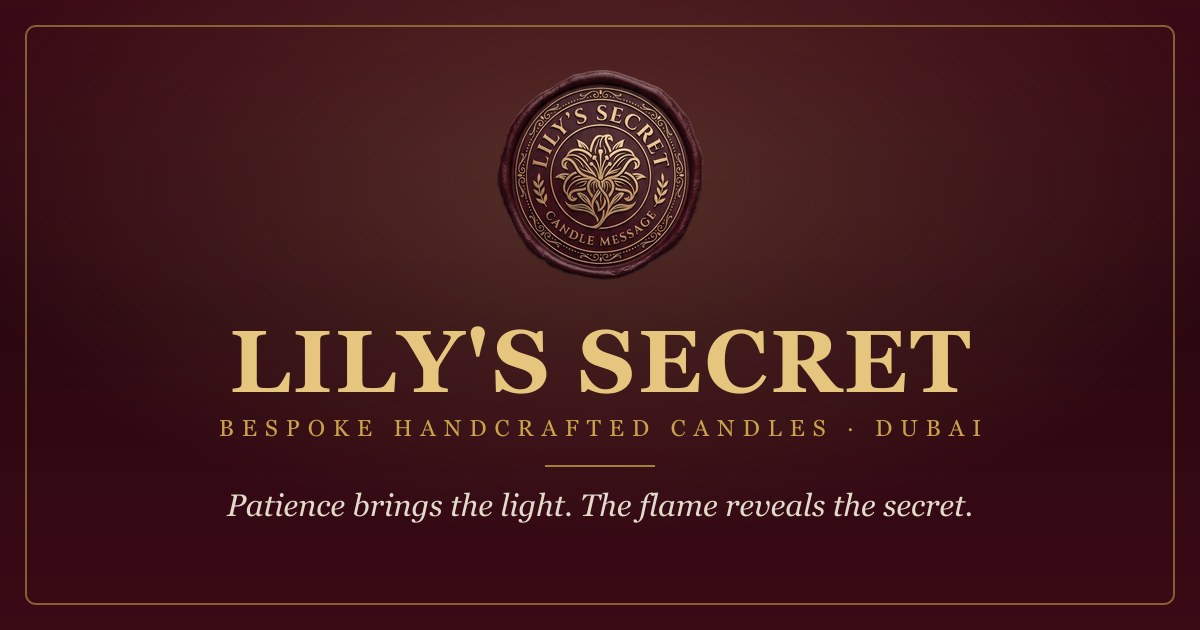
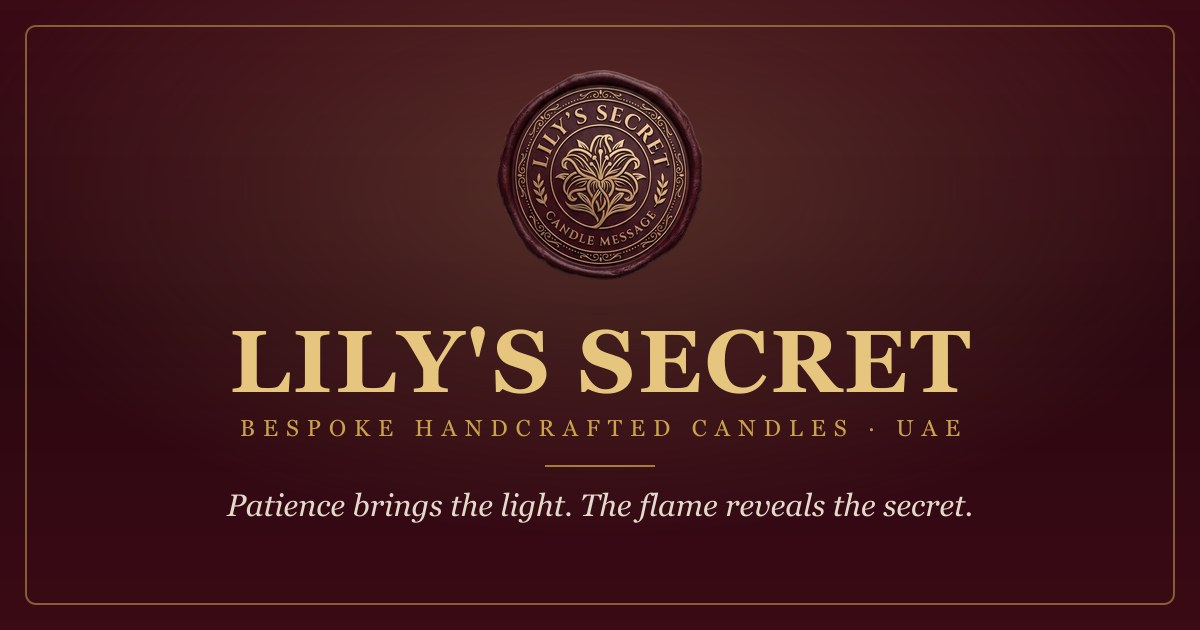
Switch marketing location from "Dubai" to "UAE" (per owner)
The company is registered in Sharjah (legal pages) and the owner opted to
market generally as "UAE" rather than a specific city. Replaced all location
claims — title, meta description/keywords, geo tags, OG/Twitter, JSON-LD
(business/product/FAQ, dropped addressLocality), the hero eyebrow, FAQ, footer
location and trust strip — across all six languages, and regenerated the
share image (now "· UAE"). Kept the genuine "From Dubai, with Love" product
message and the @user handle. VAT: not registered (wording
unchanged).

Changed region(s): [[0.185, 0.6635, 0.8017, 0.6937]]

diff --git a/js/i18n.js b/js/i18n.js
@@ -12,13 +12,13 @@
     /* ---------------- ENGLISH ---------------- */
     en: {
       "share.label":"Share","share.copied":"Link copied ✓",
-      "share.text":"Bespoke candles with a secret message hidden in the wax — handmade in Dubai.",
+      "share.text":"Bespoke candles with a secret message hidden in the wax — handmade in the UAE.",
       "faq.eyebrow":"Questions","faq.title":"Frequently asked",
-      "faq.q1":"What is Lily's Secret?","faq.a1":"We're a Dubai maker of bespoke, hand-poured candles. Each one hides a secret personal message at the bottom of the glass, revealed only as the flame burns down.",
+      "faq.q1":"What is Lily's Secret?","faq.a1":"We're a UAE maker of bespoke, hand-poured candles. Each one hides a secret personal message at the bottom of the glass, revealed only as the flame burns down.",
       "faq.q2":"How does the secret message work?","faq.a2":"You choose a fragrance and write your message. We hand-set it at the bottom of the glass before the final pour, so it stays hidden in the wax and is revealed as the candle burns down.",
       "faq.q3":"How do I place an order?","faq.a3":"Use the \u2018Create Your Candle\u2019 builder, then tap \u2018Send my order\u2019 or \u2018Order on WhatsApp\u2019. No payment is taken online \u2014 we confirm every bespoke order with you personally.",
       "faq.q4":"Can I return or change a candle?","faq.a4":"As each candle is personalised, it can't be returned once production begins. If anything arrives damaged or incorrect we'll put it right \u2014 see our Returns page.",
-      "faq.q5":"Where are the candles made, and do you deliver?","faq.a5":"Every candle is handmade to order in Dubai. We deliver across the UAE, with collection available in Dubai.",
+      "faq.q5":"Where are the candles made, and do you deliver?","faq.a5":"Every candle is handmade to order in the UAE. We deliver across the UAE.",
       "summary.wa":"Order on WhatsApp",
       "wa.prefill":"Hello Lily's Secret! I'd like to ask about a candle.","wa.aria":"Chat with us on WhatsApp",
       "footer.terms":"Terms","footer.privacy":"Privacy","footer.returns":"Returns",
@@ -40,12 +40,12 @@
       "nav.secret":"The Secret","nav.fragrances":"Fragrances","nav.how":"How It Works","nav.craft":"Craft","nav.occasions":"Occasions",
       "cta.create":"Create Your Candle",
       "ribbon.text":"Launch offer — <strong>10% off</strong> your first candle, with a hidden surprise inside","ribbon.link":"Claim it",
-      "hero.eyebrow":"Bespoke · Handcrafted · Dubai",
+      "hero.eyebrow":"Bespoke · Handcrafted · UAE",
       "hero.title":"Patience brings the light.<br><em>The flame reveals the secret.</em>",
       "hero.lead":"Fully personalised candles — a fragrance you choose, a message you write, hidden in the wax and revealed only once the flame has burned all the way down.",
       "hero.cta1":"Create Your Candle","hero.cta2":"See the secret ↓",
       "hero.seal1":"100% Plant Wax","hero.seal2":"Hand-Sealed","hero.seal3":"Revealable Message","hero.cap":"One-of-a-kind · Handmade to order",
-      "marquee.1":"Handmade to order","marquee.2":"Secret message in every candle","marquee.3":"100% plant wax","marquee.4":"Hand-sealed in Dubai",
+      "marquee.1":"Handmade to order","marquee.2":"Secret message in every candle","marquee.3":"100% plant wax","marquee.4":"Hand-sealed in the UAE",
       "promise.eyebrow":"Our Promise","promise.title":"Every candle tells a story",
       "promise.sub":"Lily's Secret creates fully personalised candles: a fragrance chosen with care, an intimate message revealed at the bottom of the glass — hand-crafted from the first pour to the final seal.",
       "promise.h1":"Handmade","promise.p1":"Every candle is poured and finished by hand, one at a time.",
@@ -97,7 +97,7 @@
       "summary.fine":"Your order is sent straight to our studio. No payment is taken online — we confirm every bespoke order personally.",
       "footer.explore":"Explore","footer.touch":"Get in touch","footer.ready":"Ready?",
       "footer.readyp":"Every order is a one-of-a-kind piece. Let's talk fragrance, message and occasion.",
-      "footer.loc":"Handmade in Dubai, UAE","footer.tagline":"<em>Patience brings the light. The flame reveals the secret.</em>",
+      "footer.loc":"Handmade in the UAE","footer.tagline":"<em>Patience brings the light. The flame reveals the secret.</em>",
       "footer.base2":"One-of-a-kind pieces — handmade to order",
       "msg.0":"A single flame of your heart illuminates the entire universe.",
       "msg.1":"Espresso yourself, or just slow down.",
@@ -114,13 +114,13 @@
     /* ---------------- ARABIC (RTL) ---------------- */
     ar: {
       "share.label":"مشاركة","share.copied":"تم نسخ الرابط ✓",
-      "share.text":"شموع مخصّصة برسالة سرّية مخبّأة في الشمع — صناعة يدوية في دبي.",
+      "share.text":"شموع مخصّصة برسالة سرّية مخبّأة في الشمع — صناعة يدوية في الإمارات.",
       "faq.eyebrow":"أسئلة","faq.title":"الأسئلة الشائعة",
-      "faq.q1":"ما هي ليليز سيكريت؟","faq.a1":"نحن صانعو شموع مخصّصة مصبوبة يدوياً في دبي. كل شمعة تخفي رسالة شخصية سرّية في قاع الكوب، تُكشف فقط عندما يحترق اللهب حتى النهاية.",
+      "faq.q1":"ما هي ليليز سيكريت؟","faq.a1":"نحن صانعو شموع مخصّصة مصبوبة يدوياً في الإمارات. كل شمعة تخفي رسالة شخصية سرّية في قاع الكوب، تُكشف فقط عندما يحترق اللهب حتى النهاية.",
       "faq.q2":"كيف تعمل الرسالة السرّية؟","faq.a2":"تختار عطراً وتكتب رسالتك. نضعها يدوياً في قاع الكوب قبل الصبّة الأخيرة، فتبقى مخبّأة في الشمع وتُكشف مع احتراق الشمعة.",
       "faq.q3":"كيف أضع طلباً؟","faq.a3":"استخدم أداة «اصنع شمعتك»، ثم اضغط «أرسل طلبي» أو «اطلب عبر واتساب». لا يتم الدفع عبر الإنترنت — نؤكّد كل طلب خاص معك شخصياً.",
       "faq.q4":"هل يمكنني إرجاع الشمعة أو تغييرها؟","faq.a4":"بما أن كل شمعة مخصّصة، لا يمكن إرجاعها بعد بدء الإنتاج. وإذا وصل أي شيء تالفاً أو غير صحيح فسنعالج الأمر — راجع صفحة الإرجاع.",
-      "faq.q5":"أين تُصنع الشموع، وهل توصّلون؟","faq.a5":"كل شمعة تُصنع يدوياً حسب الطلب في دبي. نوصّل إلى جميع أنحاء الإمارات، مع إمكانية الاستلام في دبي.",
+      "faq.q5":"أين تُصنع الشموع، وهل توصّلون؟","faq.a5":"كل شمعة تُصنع يدوياً حسب الطلب في الإمارات. نوصّل إلى جميع أنحاء الإمارات.",
       "summary.wa":"اطلب عبر واتساب",
       "wa.prefill":"مرحباً ليليز سيكريت! أودّ الاستفسار عن شمعة.","wa.aria":"تحدّث معنا على واتساب",
       "footer.terms":"الشروط","footer.privacy":"الخصوصية","footer.returns":"الإرجاع",
@@ -142,12 +142,12 @@
       "nav.secret":"السرّ","nav.fragrances":"العطور","nav.how":"كيف نصنعها","nav.craft":"الحرفة","nav.occasions":"المناسبات",
       "cta.create":"اصنع شمعتك",
       "ribbon.text":"عرض الإطلاق — <strong>خصم 10%</strong> على شمعتك الأولى، مع مفاجأة مخبّأة في الداخل","ribbon.link":"احصل عليه",
-      "hero.eyebrow":"مصنوعة خصيصاً · يدويّة · دبي",
+      "hero.eyebrow":"مصنوعة خصيصاً · يدويّة · الإمارات",
       "hero.title":"الصبر يجلب النور.<br><em>واللهب يكشف السرّ.</em>",
       "hero.lead":"شموع مخصّصة بالكامل — عطر تختاره، ورسالة تكتبها، مخبّأة في الشمع تُكشف فقط حين يحترق اللهب حتى النهاية.",
       "hero.cta1":"اصنع شمعتك","hero.cta2":"اكتشف السرّ ↓",
       "hero.seal1":"شمع نباتي 100%","hero.seal2":"مختومة يدوياً","hero.seal3":"رسالة قابلة للكشف","hero.cap":"قطعة فريدة · تُصنع حسب الطلب",
-      "marquee.1":"تُصنع حسب الطلب","marquee.2":"رسالة سرّية في كل شمعة","marquee.3":"شمع نباتي 100%","marquee.4":"مختومة يدوياً في دبي",
+      "marquee.1":"تُصنع حسب الطلب","marquee.2":"رسالة سرّية في كل شمعة","marquee.3":"شمع نباتي 100%","marquee.4":"مختومة يدوياً في الإمارات",
       "promise.eyebrow":"وعدنا","promise.title":"كل شمعة تروي حكاية",
       "promise.sub":"تصنع «ليليز سيكريت» شموعاً مخصّصة بالكامل: عطر يُختار بعناية، ورسالة حميمة تُكشف في قاع الكوب — مصنوعة يدوياً من أول صبّة إلى الختم الأخير.",
       "promise.h1":"صناعة يدوية","promise.p1":"كل شمعة تُصبّ وتُنجز يدوياً، واحدة تلو الأخرى.",
@@ -199,7 +199,7 @@
       "summary.fine":"يُرسَل طلبك مباشرةً إلى استوديونا. لا يتم الدفع عبر الإنترنت — نؤكّد كل طلب خاص شخصياً.",
       "footer.explore":"استكشف","footer.touch":"تواصل معنا","footer.ready":"جاهز؟",
       "footer.readyp":"كل طلب قطعة فريدة. لنتحدّث عن العطر والرسالة والمناسبة.",
-      "footer.loc":"صناعة يدوية في دبي، الإمارات","footer.tagline":"<em>الصبر يجلب النور. واللهب يكشف السرّ.</em>",
+      "footer.loc":"صناعة يدوية في الإمارات","footer.tagline":"<em>الصبر يجلب النور. واللهب يكشف السرّ.</em>",
       "footer.base2":"قطع فريدة — تُصنع حسب الطلب",
       "msg.0":"شعلة واحدة من قلبك تُنير الكون بأكمله.",
       "msg.1":"تناول قهوتك، أو فقط تمهّل.",
@@ -216,13 +216,13 @@
     /* ---------------- TURKISH ---------------- */
     tr: {
       "share.label":"Paylaş","share.copied":"Bağlantı kopyalandı ✓",
-      "share.text":"Balmumunda gizli bir mesaj taşıyan kişiye özel mumlar — Dubai'de el yapımı.",
+      "share.text":"Balmumunda gizli bir mesaj taşıyan kişiye özel mumlar — BAE'de el yapımı.",
       "faq.eyebrow":"Sorular","faq.title":"Sık sorulanlar",
-      "faq.q1":"Lily's Secret nedir?","faq.a1":"Dubai'de kişiye özel, elde dökülen mumlar üretiyoruz. Her mum, camın dibinde gizli kişisel bir mesaj saklar ve bu mesaj ancak alev sonuna dek yandığında ortaya çıkar.",
+      "faq.q1":"Lily's Secret nedir?","faq.a1":"BAE'de kişiye özel, elde dökülen mumlar üretiyoruz. Her mum, camın dibinde gizli kişisel bir mesaj saklar ve bu mesaj ancak alev sonuna dek yandığında ortaya çıkar.",
       "faq.q2":"Gizli mesaj nasıl çalışır?","faq.a2":"Bir koku seçer ve mesajınızı yazarsınız. Son dökümden önce camın dibine elle yerleştiririz; böylece balmumunda gizli kalır ve mum yandıkça ortaya çıkar.",
       "faq.q3":"Nasıl sipariş veririm?","faq.a3":"\u2018Mumunu Yarat\u2019 aracını kullanın, ardından \u2018Siparişimi gönder\u2019 ya da \u2018WhatsApp'tan sipariş ver\u2019e dokunun. Çevrimiçi ödeme alınmaz \u2014 her özel siparişi sizinle bizzat onaylarız.",
       "faq.q4":"Bir mumu iade edebilir veya değiştirebilir miyim?","faq.a4":"Her mum kişiye özel olduğundan, üretim başladıktan sonra iade edilemez. Bir şey hasarlı ya da yanlış gelirse düzeltiriz \u2014 İadeler sayfamıza bakın.",
-      "faq.q5":"Mumlar nerede yapılıyor ve teslimat yapıyor musunuz?","faq.a5":"Her mum Dubai'de siparişe özel el yapımıdır. BAE genelinde teslimat yaparız; Dubai'de teslim alma seçeneği vardır.",
+      "faq.q5":"Mumlar nerede yapılıyor ve teslimat yapıyor musunuz?","faq.a5":"Her mum BAE'de siparişe özel el yapımıdır. BAE genelinde teslimat yaparız.",
       "summary.wa":"WhatsApp'tan sipariş ver",
       "wa.prefill":"Merhaba Lily's Secret! Bir mum hakkında soru sormak istiyorum.","wa.aria":"WhatsApp'tan bize yazın",
       "footer.terms":"Koşullar","footer.privacy":"Gizlilik","footer.returns":"İadeler",
@@ -244,12 +244,12 @@
       "nav.secret":"Sır","nav.fragrances":"Kokular","nav.how":"Nasıl Çalışır","nav.craft":"Zanaat","nav.occasions":"Anlar",
       "cta.create":"Mumunu Yarat",
       "ribbon.text":"Lansman fırsatı — ilk mumunda <strong>%10 indirim</strong> ve içinde gizli bir sürpriz","ribbon.link":"Fırsatı yakala",
-      "hero.eyebrow":"Kişiye Özel · El Yapımı · Dubai",
+      "hero.eyebrow":"Kişiye Özel · El Yapımı · BAE",
       "hero.title":"Sabır ışığı getirir.<br><em>Alev sırrı açığa çıkarır.</em>",
       "hero.lead":"Tamamen kişiye özel mumlar — seçtiğin bir koku, yazdığın bir mesaj, mumun içinde saklı ve ancak alev sonuna dek yandığında ortaya çıkan.",
       "hero.cta1":"Mumunu Yarat","hero.cta2":"Sırrı gör ↓",
       "hero.seal1":"%100 Bitkisel Balmumu","hero.seal2":"Elde Mühürlü","hero.seal3":"Açığa Çıkan Mesaj","hero.cap":"Eşsiz · Siparişe özel el yapımı",
-      "marquee.1":"Siparişe özel el yapımı","marquee.2":"Her mumda gizli bir mesaj","marquee.3":"%100 bitkisel balmumu","marquee.4":"Dubai'de elde mühürlenir",
+      "marquee.1":"Siparişe özel el yapımı","marquee.2":"Her mumda gizli bir mesaj","marquee.3":"%100 bitkisel balmumu","marquee.4":"BAE'de elde mühürlenir",
       "promise.eyebrow":"Sözümüz","promise.title":"Her mum bir hikâye anlatır",
       "promise.sub":"Lily's Secret tamamen kişiye özel mumlar yaratır: özenle seçilmiş bir koku, camın dibinde ortaya çıkan içten bir mesaj — ilk dökümden son mühre dek elde yapılır.",
       "promise.h1":"El Yapımı","promise.p1":"Her mum tek tek, elde dökülür ve tamamlanır.",
@@ -301,7 +301,7 @@
       "summary.fine":"Siparişiniz doğrudan stüdyomuza gönderilir. Çevrimiçi ödeme alınmaz — her özel siparişi bizzat onaylıyoruz.",
       "footer.explore":"Keşfet","footer.touch":"İletişime geç","footer.ready":"Hazır mısın?",
       "footer.readyp":"Her sipariş eşsiz bir parçadır. Koku, mesaj ve anı konuşalım.",
-      "footer.loc":"Dubai, BAE'de el yapımı","footer.tagline":"<em>Sabır ışığı getirir. Alev sırrı açığa çıkarır.</em>",
+      "footer.loc":"BAE'de el yapımı","footer.tagline":"<em>Sabır ışığı getirir. Alev sırrı açığa çıkarır.</em>",
       "footer.base2":"Eşsiz parçalar — siparişe özel el yapımı",
       "msg.0":"Kalbinin tek bir alevi tüm evreni aydınlatır.",
       "msg.1":"Bir espresso iç ya da sadece yavaşla.",
@@ -318,13 +318,13 @@
     /* ---------------- FRENCH ---------------- */
     fr: {
       "share.label":"Partager","share.copied":"Lien copié ✓",
-      "share.text":"Des bougies sur mesure avec un message secret caché dans la cire — faites main à Dubaï.",
+      "share.text":"Des bougies sur mesure avec un message secret caché dans la cire — faites main aux Émirats arabes unis.",
       "faq.eyebrow":"Questions","faq.title":"Questions fréquentes",
-      "faq.q1":"Qu'est-ce que Lily's Secret ?","faq.a1":"Nous créons à Dubaï des bougies sur mesure, coulées à la main. Chacune cache un message personnel secret au fond du verre, révélé seulement lorsque la flamme a tout consumé.",
+      "faq.q1":"Qu'est-ce que Lily's Secret ?","faq.a1":"Nous créons aux Émirats arabes unis des bougies sur mesure, coulées à la main. Chacune cache un message personnel secret au fond du verre, révélé seulement lorsque la flamme a tout consumé.",
       "faq.q2":"Comment fonctionne le message secret ?","faq.a2":"Vous choisissez une fragrance et écrivez votre message. Nous le plaçons à la main au fond du verre avant la coulée finale ; il reste caché dans la cire et se révèle à mesure que la bougie brûle.",
       "faq.q3":"Comment passer commande ?","faq.a3":"Utilisez le module \u2018Créez votre bougie\u2019, puis touchez \u2018Envoyer ma commande\u2019 ou \u2018Commander sur WhatsApp\u2019. Aucun paiement en ligne \u2014 nous confirmons chaque commande sur mesure avec vous personnellement.",
       "faq.q4":"Puis-je retourner ou modifier une bougie ?","faq.a4":"Chaque bougie étant personnalisée, elle ne peut être retournée une fois la production commencée. Si un article arrive endommagé ou incorrect, nous y remédions \u2014 voir notre page Retours.",
-      "faq.q5":"Où sont fabriquées les bougies, et livrez-vous ?","faq.a5":"Chaque bougie est faite main sur commande à Dubaï. Nous livrons dans tous les Émirats, avec retrait possible à Dubaï.",
+      "faq.q5":"Où sont fabriquées les bougies, et livrez-vous ?","faq.a5":"Chaque bougie est faite main sur commande aux Émirats arabes unis. Nous livrons dans tous les Émirats.",
       "summary.wa":"Commander sur WhatsApp",
       "wa.prefill":"Bonjour Lily's Secret ! J'aimerais me renseigner sur une bougie.","wa.aria":"Discutez avec nous sur WhatsApp",
       "footer.terms":"Conditions","footer.privacy":"Confidentialité","footer.returns":"Retours",
@@ -346,12 +346,12 @@
       "nav.secret":"Le Secret","nav.fragrances":"Fragrances","nav.how":"Comment ça marche","nav.craft":"Savoir-faire","nav.occasions":"Occasions",
       "cta.create":"Créez votre bougie",
       "ribbon.text":"Offre de lancement — <strong>-10 %</strong> sur votre première bougie, avec une surprise cachée à l'intérieur","ribbon.link":"J'en profite",
-      "hero.eyebrow":"Sur mesure · Fait main · Dubaï",
+      "hero.eyebrow":"Sur mesure · Fait main · ÉAU",
       "hero.title":"La patience apporte la lumière.<br><em>La flamme révèle le secret.</em>",
       "hero.lead":"Des bougies entièrement personnalisées — une fragrance que vous choisissez, un message que vous écrivez, caché dans la cire et révélé seulement lorsque la flamme a tout consumé.",
       "hero.cta1":"Créez votre bougie","hero.cta2":"Voir le secret ↓",
       "hero.seal1":"Cire 100 % végétale","hero.seal2":"Scellée à la main","hero.seal3":"Message à révéler","hero.cap":"Pièce unique · Faite main sur commande",
-      "marquee.1":"Faite main sur commande","marquee.2":"Un message secret dans chaque bougie","marquee.3":"Cire 100 % végétale","marquee.4":"Scellée à la main à Dubaï",
+      "marquee.1":"Faite main sur commande","marquee.2":"Un message secret dans chaque bougie","marquee.3":"Cire 100 % végétale","marquee.4":"Scellée à la main aux Émirats",
       "promise.eyebrow":"Notre Promesse","promise.title":"Chaque bougie raconte une histoire",
       "promise.sub":"Lily's Secret crée des bougies entièrement personnalisées : une fragrance choisie avec soin, un message intime révélé au fond du verre — façonnée à la main, de la première coulée au dernier sceau.",
       "promise.h1":"Fait main","promise.p1":"Chaque bougie est coulée et finie à la main, une à une.",
@@ -403,7 +403,7 @@
       "summary.fine":"Votre commande est envoyée directement à notre atelier. Aucun paiement en ligne — nous confirmons chaque commande sur mesure personnellement.",
       "footer.explore":"Explorer","footer.touch":"Nous contacter","footer.ready":"Prêt ?",
       "footer.readyp":"Chaque commande est une pièce unique. Parlons fragrance, message et occasion.",
-      "footer.loc":"Fait main à Dubaï, ÉAU","footer.tagline":"<em>La patience apporte la lumière. La flamme révèle le secret.</em>",
+      "footer.loc":"Fait main aux ÉAU","footer.tagline":"<em>La patience apporte la lumière. La flamme révèle le secret.</em>",
       "footer.base2":"Pièces uniques — faites main sur commande",
       "msg.0":"Une seule flamme de ton cœur illumine l'univers entier.",
       "msg.1":"Un espresso, ou simplement ralentir.",
@@ -420,13 +420,13 @@
     /* ---------------- RUSSIAN ---------------- */
     ru: {
       "share.label":"Поделиться","share.copied":"Ссылка скопирована ✓",
-      "share.text":"Персональные свечи с секретным посланием, спрятанным в воске — ручная работа из Дубая.",
+      "share.text":"Персональные свечи с секретным посланием, спрятанным в воске — ручная работа из ОАЭ.",
       "faq.eyebrow":"Вопросы","faq.title":"Частые вопросы",
-      "faq.q1":"Что такое Lily's Secret?","faq.a1":"Мы делаем в Дубае индивидуальные свечи ручной заливки. Каждая прячет секретное личное послание на дне стакана, которое открывается лишь когда пламя прогорит до конца.",
+      "faq.q1":"Что такое Lily's Secret?","faq.a1":"Мы делаем в ОАЭ индивидуальные свечи ручной заливки. Каждая прячет секретное личное послание на дне стакана, которое открывается лишь когда пламя прогорит до конца.",
       "faq.q2":"Как работает секретное послание?","faq.a2":"Вы выбираете аромат и пишете своё послание. Мы вручную размещаем его на дне стакана перед финальной заливкой, поэтому оно спрятано в воске и открывается по мере горения свечи.",
       "faq.q3":"Как сделать заказ?","faq.a3":"Воспользуйтесь конструктором \u2018Создайте свою свечу\u2019, затем нажмите \u2018Отправить заказ\u2019 или \u2018Заказать в WhatsApp\u2019. Оплата онлайн не взимается \u2014 каждый индивидуальный заказ мы подтверждаем лично.",
       "faq.q4":"Можно ли вернуть или изменить свечу?","faq.a4":"Поскольку каждая свеча персональная, её нельзя вернуть после начала производства. Если что-то придёт повреждённым или неверным — мы всё исправим (см. страницу Возврата).",
-      "faq.q5":"Где делают свечи и есть ли доставка?","faq.a5":"Каждая свеча делается на заказ вручную в Дубае. Мы доставляем по всем ОАЭ, самовывоз доступен в Дубае.",
+      "faq.q5":"Где делают свечи и есть ли доставка?","faq.a5":"Каждая свеча делается на заказ вручную в ОАЭ. Мы доставляем по всем ОАЭ.",
       "summary.wa":"Заказать в WhatsApp",
       "wa.prefill":"Здравствуйте, Lily's Secret! Хочу узнать о свече.","wa.aria":"Напишите нам в WhatsApp",
       "footer.terms":"Условия","footer.privacy":"Конфиденциальность","footer.returns":"Возврат",
@@ -448,12 +448,12 @@
       "nav.secret":"Секрет","nav.fragrances":"Ароматы","nav.how":"Как это работает","nav.craft":"Ремесло","nav.occasions":"Поводы",
       "cta.create":"Создать свечу",
       "ribbon.text":"Запуск — <strong>-10 %</strong> на первую свечу и скрытый сюрприз внутри","ribbon.link":"Забрать",
-      "hero.eyebrow":"На заказ · Ручная работа · Дубай",
+      "hero.eyebrow":"На заказ · Ручная работа · ОАЭ",
       "hero.title":"Терпение приносит свет.<br><em>Пламя раскрывает секрет.</em>",
       "hero.lead":"Полностью персональные свечи — аромат на ваш выбор, ваше послание, спрятанное в воске и открывающееся лишь тогда, когда пламя прогорит до конца.",
       "hero.cta1":"Создать свечу","hero.cta2":"Увидеть секрет ↓",
       "hero.seal1":"100 % растительный воск","hero.seal2":"Запечатано вручную","hero.seal3":"Скрытое послание","hero.cap":"Уникальна · Ручная работа на заказ",
-      "marquee.1":"Ручная работа на заказ","marquee.2":"Секретное послание в каждой свече","marquee.3":"100 % растительный воск","marquee.4":"Запечатано вручную в Дубае",
+      "marquee.1":"Ручная работа на заказ","marquee.2":"Секретное послание в каждой свече","marquee.3":"100 % растительный воск","marquee.4":"Запечатано вручную в ОАЭ",
       "promise.eyebrow":"Наше обещание","promise.title":"Каждая свеча хранит историю",
       "promise.sub":"Lily's Secret создаёт полностью персональные свечи: тщательно выбранный аромат и сокровенное послание на дне стакана — всё вручную, от первой заливки до финальной печати.",
       "promise.h1":"Ручная работа","promise.p1":"Каждая свеча заливается и завершается вручную, по одной.",
@@ -505,7 +505,7 @@
       "summary.fine":"Ваш заказ отправляется прямо в нашу студию. Оплата онлайн не взимается — каждый индивидуальный заказ мы подтверждаем лично.",
       "footer.explore":"Разделы","footer.touch":"Связаться","footer.ready":"Готовы?",
       "footer.readyp":"Каждый заказ — уникальная вещь. Обсудим аромат, послание и повод.",
-      "footer.loc":"Ручная работа в Дубае, ОАЭ","footer.tagline":"<em>Терпение приносит свет. Пламя раскрывает секрет.</em>",
+      "footer.loc":"Ручная работа в ОАЭ","footer.tagline":"<em>Терпение приносит свет. Пламя раскрывает секрет.</em>",
       "footer.base2":"Уникальные изделия — ручная работа на заказ",
       "msg.0":"Одно пламя твоего сердца освещает всю вселенную.",
       "msg.1":"Глоток эспрессо — или просто замедлись.",
@@ -522,13 +522,13 @@
     /* ---------------- HINDI ---------------- */
     hi: {
       "share.label":"साझा करें","share.copied":"लिंक कॉपी हो गया ✓",
-      "share.text":"मोम में छिपे गुप्त संदेश वाली वैयक्तिक मोमबत्तियाँ — दुबई में हस्तनिर्मित।",
+      "share.text":"मोम में छिपे गुप्त संदेश वाली वैयक्तिक मोमबत्तियाँ — यूएई में हस्तनिर्मित।",
       "faq.eyebrow":"सवाल","faq.title":"अक्सर पूछे जाने वाले सवाल",
-      "faq.q1":"Lily's Secret क्या है?","faq.a1":"हम दुबई में हाथ से ढाली गई वैयक्तिक मोमबत्तियाँ बनाते हैं। हर मोमबत्ती काँच की तली में एक गुप्त निजी संदेश छिपाती है, जो तभी उजागर होता है जब लौ पूरी तरह जल जाती है।",
+      "faq.q1":"Lily's Secret क्या है?","faq.a1":"हम यूएई में हाथ से ढाली गई वैयक्तिक मोमबत्तियाँ बनाते हैं। हर मोमबत्ती काँच की तली में एक गुप्त निजी संदेश छिपाती है, जो तभी उजागर होता है जब लौ पूरी तरह जल जाती है।",
       "faq.q2":"गुप्त संदेश कैसे काम करता है?","faq.a2":"आप एक सुगंध चुनते हैं और अपना संदेश लिखते हैं। हम इसे अंतिम ढलाई से पहले काँच की तली में हाथ से रखते हैं, ताकि यह मोम में छिपा रहे और मोमबत्ती के जलने पर उजागर हो।",
       "faq.q3":"मैं ऑर्डर कैसे करूँ?","faq.a3":"\u2018अपनी मोमबत्ती बनाएँ\u2019 टूल का उपयोग करें, फिर \u2018मेरा ऑर्डर भेजें\u2019 या \u2018WhatsApp पर ऑर्डर करें\u2019 दबाएँ। ऑनलाइन कोई भुगतान नहीं \u2014 हर विशेष ऑर्डर की पुष्टि हम आपके साथ व्यक्तिगत रूप से करते हैं।",
       "faq.q4":"क्या मैं मोमबत्ती वापस या बदल सकता/सकती हूँ?","faq.a4":"चूँकि हर मोमबत्ती वैयक्तिक है, उत्पादन शुरू होने के बाद इसे वापस नहीं किया जा सकता। यदि कुछ क्षतिग्रस्त या गलत आता है तो हम उसे ठीक करेंगे \u2014 हमारा वापसी पेज देखें।",
-      "faq.q5":"मोमबत्तियाँ कहाँ बनती हैं, और क्या आप डिलीवरी करते हैं?","faq.a5":"हर मोमबत्ती दुबई में ऑर्डर पर हस्तनिर्मित होती है। हम पूरे यूएई में डिलीवरी करते हैं, दुबई में पिकअप उपलब्ध है।",
+      "faq.q5":"मोमबत्तियाँ कहाँ बनती हैं, और क्या आप डिलीवरी करते हैं?","faq.a5":"हर मोमबत्ती यूएई में ऑर्डर पर हस्तनिर्मित होती है। हम पूरे यूएई में डिलीवरी करते हैं।",
       "summary.wa":"WhatsApp पर ऑर्डर करें",
       "wa.prefill":"नमस्ते Lily's Secret! मैं एक मोमबत्ती के बारे में पूछना चाहता/चाहती हूँ।","wa.aria":"WhatsApp पर हमसे बात करें",
       "footer.terms":"शर्तें","footer.privacy":"गोपनीयता","footer.returns":"वापसी",
@@ -550,12 +550,12 @@
       "nav.secret":"राज़","nav.fragrances":"सुगंध","nav.how":"यह कैसे काम करता है","nav.craft":"कारीगरी","nav.occasions":"अवसर",
       "cta.create":"अपनी मोमबत्ती बनाएँ",
       "ribbon.text":"लॉन्च ऑफ़र — आपकी पहली मोमबत्ती पर <strong>10% छूट</strong>, अंदर एक छुपा सरप्राइज़","ribbon.link":"पाएँ",
-      "hero.eyebrow":"विशेष रूप से · हस्तनिर्मित · दुबई",
+      "hero.eyebrow":"विशेष रूप से · हस्तनिर्मित · यूएई",
       "hero.title":"धैर्य रोशनी लाता है।<br><em>लौ राज़ को उजागर करती है।</em>",
       "hero.lead":"पूरी तरह वैयक्तिक मोमबत्तियाँ — आपकी चुनी सुगंध, आपका लिखा संदेश, मोम में छिपा और तभी उजागर होता है जब लौ पूरी तरह जल जाती है।",
       "hero.cta1":"अपनी मोमबत्ती बनाएँ","hero.cta2":"राज़ देखें ↓",
       "hero.seal1":"100% पादप मोम","hero.seal2":"हाथ से सील","hero.seal3":"उजागर होने वाला संदेश","hero.cap":"अद्वितीय · ऑर्डर पर हस्तनिर्मित",
-      "marquee.1":"ऑर्डर पर हस्तनिर्मित","marquee.2":"हर मोमबत्ती में एक गुप्त संदेश","marquee.3":"100% पादप मोम","marquee.4":"दुबई में हाथ से सील",
+      "marquee.1":"ऑर्डर पर हस्तनिर्मित","marquee.2":"हर मोमबत्ती में एक गुप्त संदेश","marquee.3":"100% पादप मोम","marquee.4":"यूएई में हाथ से सील",
       "promise.eyebrow":"हमारा वादा","promise.title":"हर मोमबत्ती एक कहानी कहती है",
       "promise.sub":"Lily's Secret पूरी तरह वैयक्तिक मोमबत्तियाँ बनाती है: सावधानी से चुनी गई सुगंध और काँच की तली में उजागर होता एक आत्मीय संदेश — पहली ढलाई से अंतिम सील तक, सब हाथ से।",
       "promise.h1":"हस्तनिर्मित","promise.p1":"हर मोमबत्ती एक-एक करके हाथ से ढाली और पूरी की जाती है।",
@@ -607,7 +607,7 @@
       "summary.fine":"आपका ऑर्डर सीधे हमारे स्टूडियो भेजा जाता है। ऑनलाइन कोई भुगतान नहीं लिया जाता — हर विशेष ऑर्डर की पुष्टि हम व्यक्तिगत रूप से करते हैं।",
       "footer.explore":"जानें","footer.touch":"संपर्क करें","footer.ready":"तैयार?",
       "footer.readyp":"हर ऑर्डर एक अद्वितीय कृति है। सुगंध, संदेश और अवसर पर बात करें।",
-      "footer.loc":"दुबई, यूएई में हस्तनिर्मित","footer.tagline":"<em>धैर्य रोशनी लाता है। लौ राज़ को उजागर करती है।</em>",
+      "footer.loc":"यूएई में हस्तनिर्मित","footer.tagline":"<em>धैर्य रोशनी लाता है। लौ राज़ को उजागर करती है।</em>",
       "footer.base2":"अद्वितीय कृतियाँ — ऑर्डर पर हस्तनिर्मित",
       "msg.0":"तुम्हारे हृदय की एक लौ पूरे ब्रह्मांड को रोशन करती है।",
       "msg.1":"एक एस्प्रेसो लो, या बस थोड़ा ठहर जाओ।",

diff --git a/index.html b/index.html
@@ -3,35 +3,35 @@
 <head>
 <meta charset="UTF-8" />
 <meta name="viewport" content="width=device-width, initial-scale=1.0" />
-<title>Lily's Secret — Bespoke Handcrafted Candles with a Secret Message | Dubai</title>
-<meta name="description" content="Bespoke hand-poured candles in Dubai with a secret personal message hidden in the wax — revealed only as the flame burns down. Choose your fragrance and message; handmade to order." />
-<meta name="keywords" content="bespoke candles Dubai, personalised candles, secret message candle, handmade candles UAE, custom candle gift, hidden message candle" />
+<title>Lily's Secret — Bespoke Handcrafted Candles with a Secret Message | UAE</title>
+<meta name="description" content="Bespoke hand-poured candles in the UAE with a secret personal message hidden in the wax — revealed only as the flame burns down. Choose your fragrance and message; handmade to order." />
+<meta name="keywords" content="bespoke candles UAE, personalised candles, secret message candle, handmade candles UAE, custom candle gift, hidden message candle" />
 <meta name="author" content="Lily's Secret" />
 <meta name="robots" content="index, follow, max-image-preview:large" />
 <meta name="theme-color" content="#4A0E1C" />
 <link rel="canonical" href="https://www.lilysecretcandles.com/" />
 
-<!-- Geo / local (Dubai) -->
-<meta name="geo.region" content="AE-DU" />
-<meta name="geo.placename" content="Dubai" />
+<!-- Geo / local (UAE) -->
+<meta name="geo.region" content="AE" />
+<meta name="geo.placename" content="United Arab Emirates" />
 <meta name="geo.country" content="AE" />
 
 <!-- Open Graph -->
 <meta property="og:site_name" content="Lily's Secret" />
 <meta property="og:title" content="Lily's Secret — Bespoke Handcrafted Candles with a Secret Message" />
-<meta property="og:description" content="A fragrance you choose, a message you write — hidden in the wax until the flame reveals it. Handmade to order in Dubai." />
+<meta property="og:description" content="A fragrance you choose, a message you write — hidden in the wax until the flame reveals it. Handmade to order in the UAE." />
 <meta property="og:image" content="https://www.lilysecretcandles.com/assets/images/og-share.jpg" />
 <meta property="og:image:width" content="1200" />
 <meta property="og:image:height" content="630" />
-<meta property="og:image:alt" content="Lily's Secret — bespoke handcrafted candles, Dubai" />
+<meta property="og:image:alt" content="Lily's Secret — bespoke handcrafted candles, UAE" />
 <meta property="og:url" content="https://www.lilysecretcandles.com/" />
 <meta property="og:type" content="website" />
 <meta property="og:locale" content="en" />
 
 <!-- Twitter -->
 <meta name="twitter:card" content="summary_large_image" />
-<meta name="twitter:title" content="Lily's Secret — Bespoke Handcrafted Candles · Dubai" />
-<meta name="twitter:description" content="Candles with a secret message hidden in the wax, revealed as the flame burns down. Handmade to order in Dubai." />
+<meta name="twitter:title" content="Lily's Secret — Bespoke Handcrafted Candles · UAE" />
+<meta name="twitter:description" content="Candles with a secret message hidden in the wax, revealed as the flame burns down. Handmade to order in the UAE." />
 <meta name="twitter:image" content="https://www.lilysecretcandles.com/assets/images/og-share.jpg" />
 
 <link rel="icon" href="assets/images/logo-seal.png" />
@@ -50,14 +50,14 @@
       "@id": "https://www.lilysecretcandles.com/#business",
       "name": "Lily's Secret",
       "alternateName": "Lily's Secret Candle Message",
-      "description": "Bespoke hand-poured candles with a secret personal message hidden in the wax, revealed as the flame burns down. Handmade to order in Dubai.",
+      "description": "Bespoke hand-poured candles with a secret personal message hidden in the wax, revealed as the flame burns down. Handmade to order in the UAE.",
       "slogan": "Patience brings the light. The flame reveals the secret.",
       "url": "https://www.lilysecretcandles.com/",
       "logo": "https://www.lilysecretcandles.com/assets/images/logo-seal.png",
       "image": "https://www.lilysecretcandles.com/assets/images/hero-candle-seal.jpeg",
       "email": "[email redacted]",
       "priceRange": "$$",
-      "address": { "@type": "PostalAddress", "addressLocality": "Dubai", "addressCountry": "AE" },
+      "address": { "@type": "PostalAddress", "addressCountry": "AE" },
       "areaServed": { "@type": "Country", "name": "United Arab Emirates" },
       "knowsLanguage": ["en", "ar", "tr", "fr", "ru", "hi"],
       "sameAs": ["https://www.instagram.com/lillysecretcandlesdxb"]
@@ -75,7 +75,7 @@
       "@id": "https://www.lilysecretcandles.com/#product",
       "name": "Bespoke Personalised Candle with a Secret Message",
       "brand": { "@type": "Brand", "name": "Lily's Secret" },
-      "description": "A fully personalised, hand-poured candle with a secret message hidden at the bottom of the glass and revealed as the flame burns down. Choose your fragrance, secret message and occasion. 100% plant wax, natural cotton wick, hand-sealed. Handmade to order in Dubai.",
+      "description": "A fully personalised, hand-poured candle with a secret message hidden at the bottom of the glass and revealed as the flame burns down. Choose your fragrance, secret message and occasion. 100% plant wax, natural cotton wick, hand-sealed. Handmade to order in the UAE.",
       "category": "Candles",
       "material": "Plant wax",
       "image": [
@@ -107,9 +107,9 @@
       "@type": "FAQPage",
       "@id": "https://www.lilysecretcandles.com/#faq",
       "mainEntity": [
-        { "@type": "Question", "name": "What is Lily's Secret?", "acceptedAnswer": { "@type": "Answer", "text": "Lily's Secret is a Dubai-based maker of bespoke hand-poured candles. Each candle hides a secret personal message at the bottom of the glass, revealed only once the flame has burned all the way down." } },
+        { "@type": "Question", "name": "What is Lily's Secret?", "acceptedAnswer": { "@type": "Answer", "text": "Lily's Secret is a UAE-based maker of bespoke hand-poured candles. Each candle hides a secret personal message at the bottom of the glass, revealed only once the flame has burned all the way down." } },
         { "@type": "Question", "name": "How does the secret message work?", "acceptedAnswer": { "@type": "Answer", "text": "You choose a fragrance and write a personal message. The message is hand-set at the bottom of the glass before the final pour, hidden in the wax, and revealed as the candle burns down." } },
-        { "@type": "Question", "name": "Where are Lily's Secret candles made?", "acceptedAnswer": { "@type": "Answer", "text": "Every candle is hand-poured and hand-sealed to order in Dubai, United Arab Emirates." } },
+        { "@type": "Question", "name": "Where are Lily's Secret candles made?", "acceptedAnswer": { "@type": "Answer", "text": "Every candle is hand-poured and hand-sealed to order in the United Arab Emirates." } },
         { "@type": "Question", "name": "How do I order a bespoke candle?", "acceptedAnswer": { "@type": "Answer", "text": "Use the 'Create Your Candle' builder on the website to choose your fragrance, secret message and occasion, then send your details. No payment is taken online — each bespoke order is confirmed personally." } },
         { "@type": "Question", "name": "What fragrances are available?", "acceptedAnswer": { "@type": "Answer", "text": "Seven signature scents: Exotic Dream, Amber Tale, Velvet Coffee, Summer Sun, Pure Silk, Sweet Escape and Istanbul Tulip. You can also request your own blend." } }
       ]
@@ -192,7 +192,7 @@
   <div class="hero__grain" aria-hidden="true"></div>
   <div class="hero__inner">
     <div class="hero__copy reveal">
-      <span class="eyebrow eyebrow--gold" data-i18n="hero.eyebrow">Bespoke · Handcrafted · Dubai</span>
+      <span class="eyebrow eyebrow--gold" data-i18n="hero.eyebrow">Bespoke · Handcrafted · UAE</span>
       <h1 class="hero__title" data-i18n-html="hero.title">Patience brings the light.<br /><em>The flame reveals the secret.</em></h1>
       <p class="hero__lead" data-i18n="hero.lead">Fully personalised candles — a fragrance you choose, a message you write, hidden in the wax and revealed only once the flame has burned all the way down.</p>
       <div class="hero__actions">
@@ -453,7 +453,7 @@
     <div class="faq-list reveal">
       <details class="faq-item">
         <summary><span data-i18n="faq.q1">What is Lily's Secret?</span><span class="faq-item__ico" aria-hidden="true"></span></summary>
-        <div class="faq-a"><p data-i18n="faq.a1">We're a Dubai maker of bespoke, hand-poured candles. Each one hides a secret personal message at the bottom of the glass, revealed only as the flame burns down.</p></div>
+        <div class="faq-a"><p data-i18n="faq.a1">We're a UAE maker of bespoke, hand-poured candles. Each one hides a secret personal message at the bottom of the glass, revealed only as the flame burns down.</p></div>
       </details>
       <details class="faq-item">
         <summary><span data-i18n="faq.q2">How does the secret message work?</span><span class="faq-item__ico" aria-hidden="true"></span></summary>
@@ -469,7 +469,7 @@
       </details>
       <details class="faq-item">
         <summary><span data-i18n="faq.q5">Where are the candles made, and do you deliver?</span><span class="faq-item__ico" aria-hidden="true"></span></summary>
-        <div class="faq-a"><p data-i18n="faq.a5">Every candle is handmade to order in Dubai. We deliver across the UAE, with collection available in Dubai.</p></div>
+        <div class="faq-a"><p data-i18n="faq.a5">Every candle is handmade to order in the UAE. We deliver across the UAE.</p></div>
       </details>
     </div>
   </div>
@@ -516,7 +516,7 @@
         <a href="https://www.instagram.com/lillysecretcandlesdxb" target="_blank" rel="noopener">Instagram</a>
         <a id="waFooter" href="#" target="_blank" rel="noopener" hidden>WhatsApp</a>
         <a href="mailto:[email redacted]">[email redacted]</a>
-        <span class="footer__loc" data-i18n="footer.loc">Handmade in Dubai, UAE</span>
+        <span class="footer__loc" data-i18n="footer.loc">Handmade in the UAE</span>
       </div>
       <div class="footer__col footer__col--cta">
         <h4 data-i18n="footer.ready">Ready?</h4>
@@ -529,7 +529,7 @@
     <span data-i18n="marquee.1">Handmade to order</span>
     <span data-i18n="marquee.2">Secret message in every candle</span>
     <span data-i18n="marquee.3">100% plant wax</span>
-    <span data-i18n="marquee.4">Hand-sealed in Dubai</span>
+    <span data-i18n="marquee.4">Hand-sealed in the UAE</span>
   </div>
   <div class="footer__base">
     <span>© <span id="yr"></span> Lily's Secret · Candle Message</span>